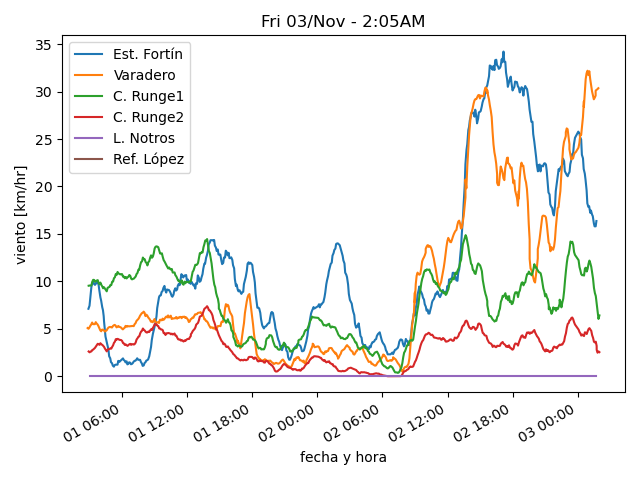
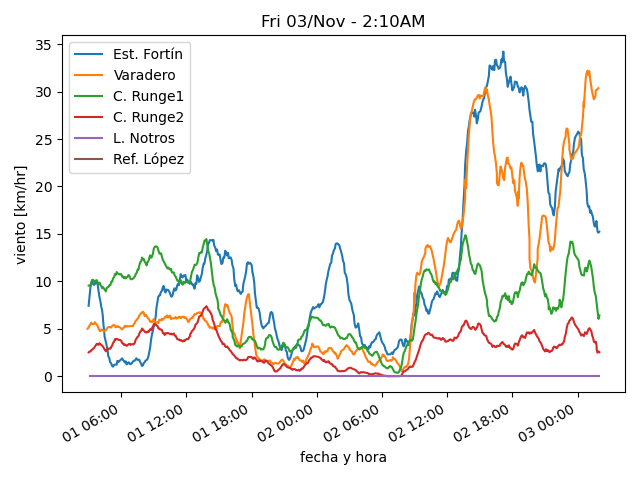
actualiza datos

diff --git a/estaciones/estacion1.html b/estaciones/estacion1.html
@@ -18,12 +18,12 @@
     </tr>
     <tr>
      <td class="stats_data">
-      1:43AM
+      1:59AM
      </td>
     </tr>
     <tr>
      <td class="stats_data">
-      7.2⁰C
+      7.1⁰C
      </td>
     </tr>
     <tr>
@@ -33,7 +33,7 @@
     </tr>
     <tr>
      <td class="stats_data">
-      63.5%
+      64.0%
      </td>
     </tr>
     <tr>
@@ -43,7 +43,7 @@
     </tr>
     <tr>
      <td class="stats_data">
-      6.4/18.5 km/hr SSW
+      10.2/16.6 km/hr SSW
      </td>
     </tr>
     <tr>

diff --git a/estaciones/estacion5.html b/estaciones/estacion5.html
@@ -18,27 +18,27 @@
     </tr>
     <tr>
      <td class="stats_data">
-      1:40AM
+      1:55AM
      </td>
     </tr>
     <tr>
      <td class="stats_data">
-      6.0⁰C
+      5.3⁰C
      </td>
     </tr>
     <tr>
      <td class="stats_data">
-      1.1⁰C
+      0.7⁰C
      </td>
     </tr>
     <tr>
      <td class="stats_data">
-      71.0%
+      72.0%
      </td>
     </tr>
     <tr>
      <td class="stats_data">
-      1024.35hPa
+      1024.55hPa
      </td>
     </tr>
     <tr>
